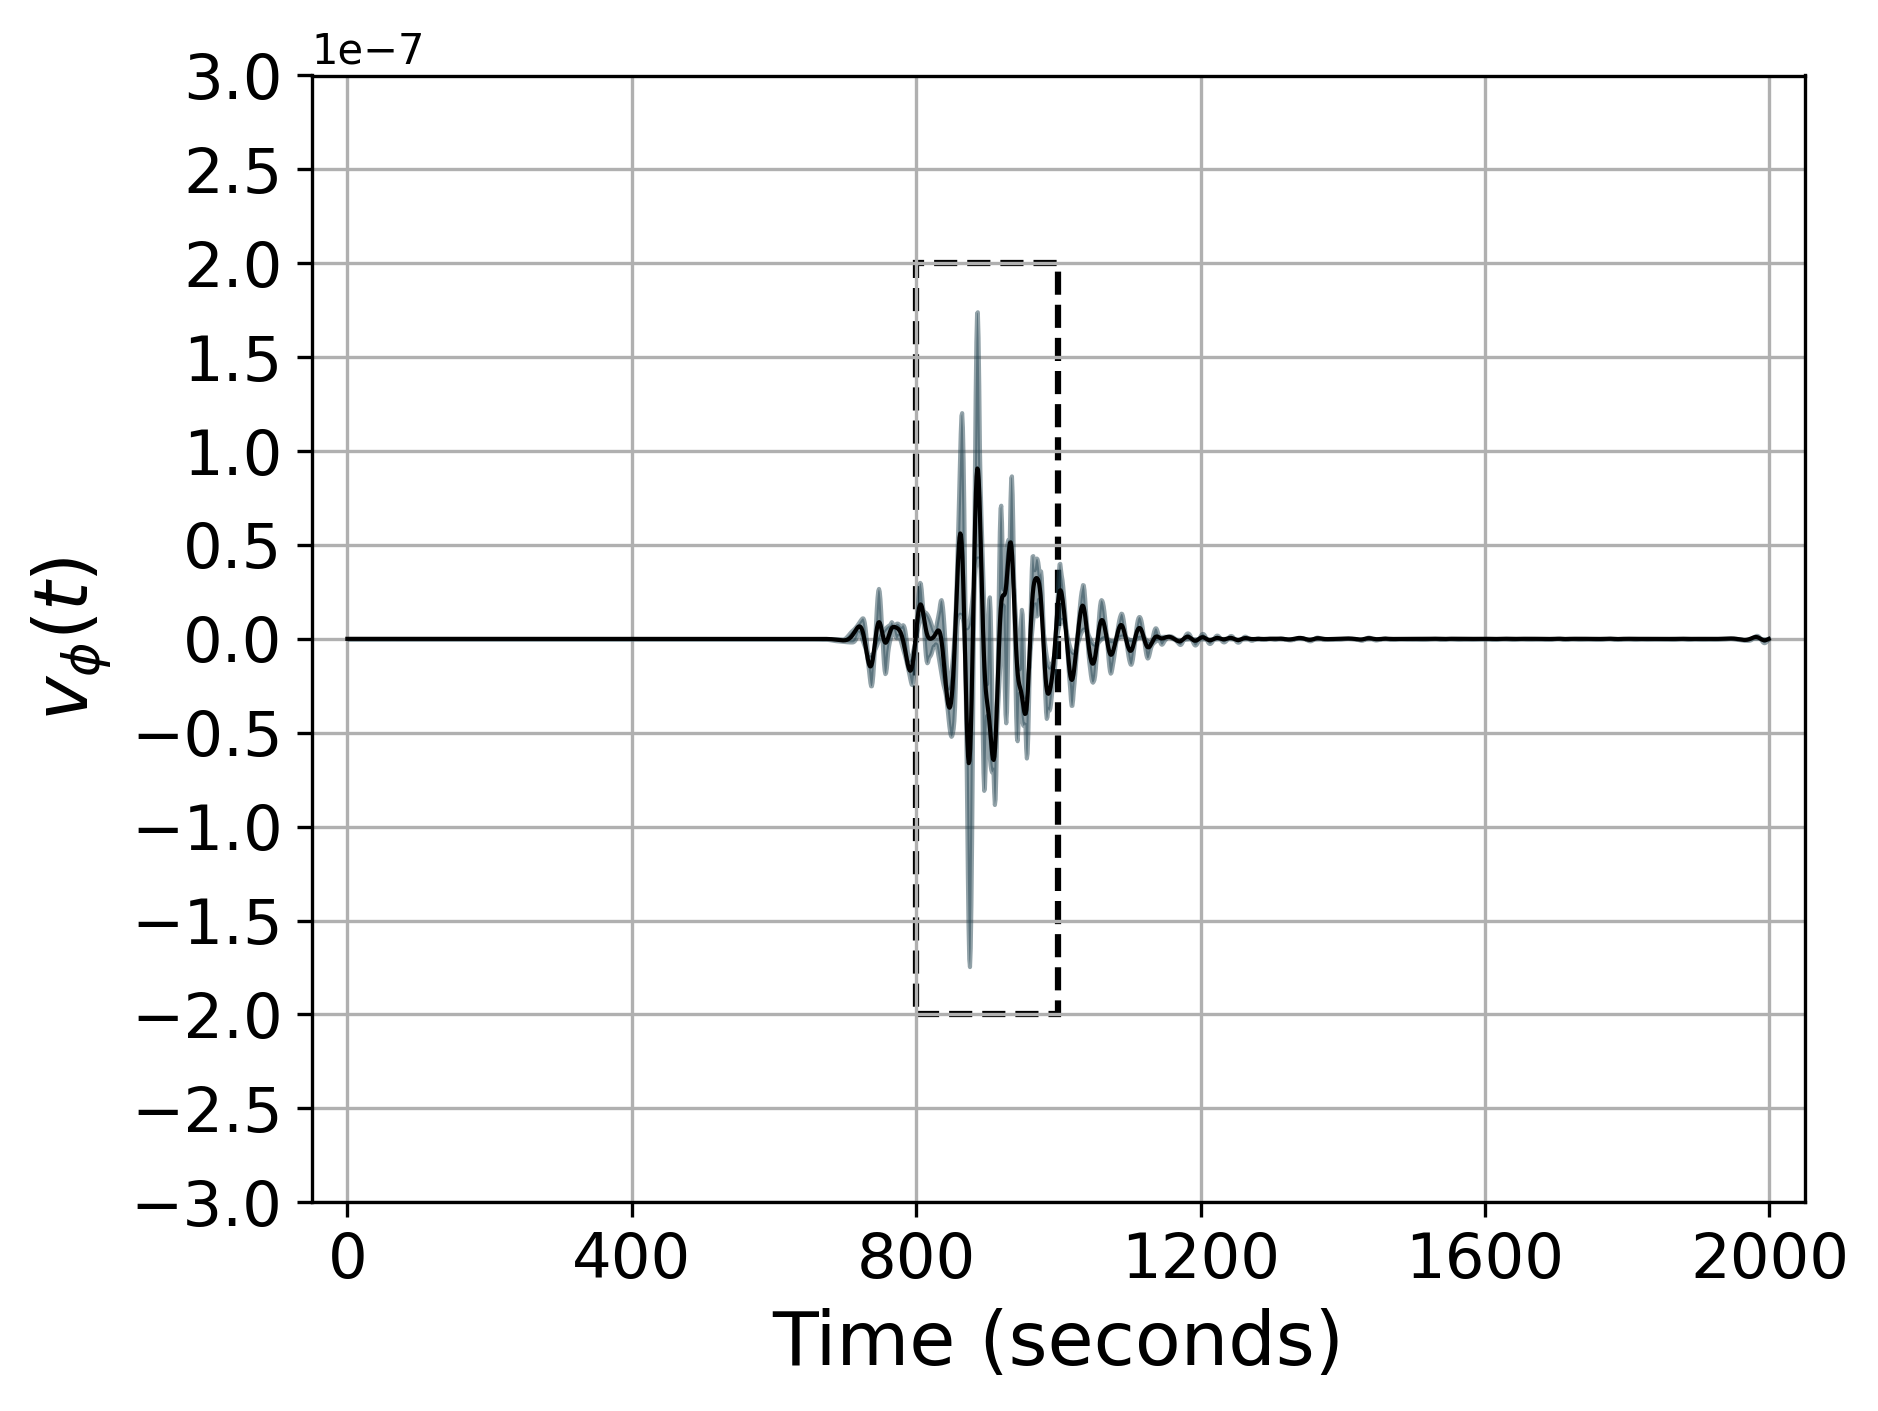
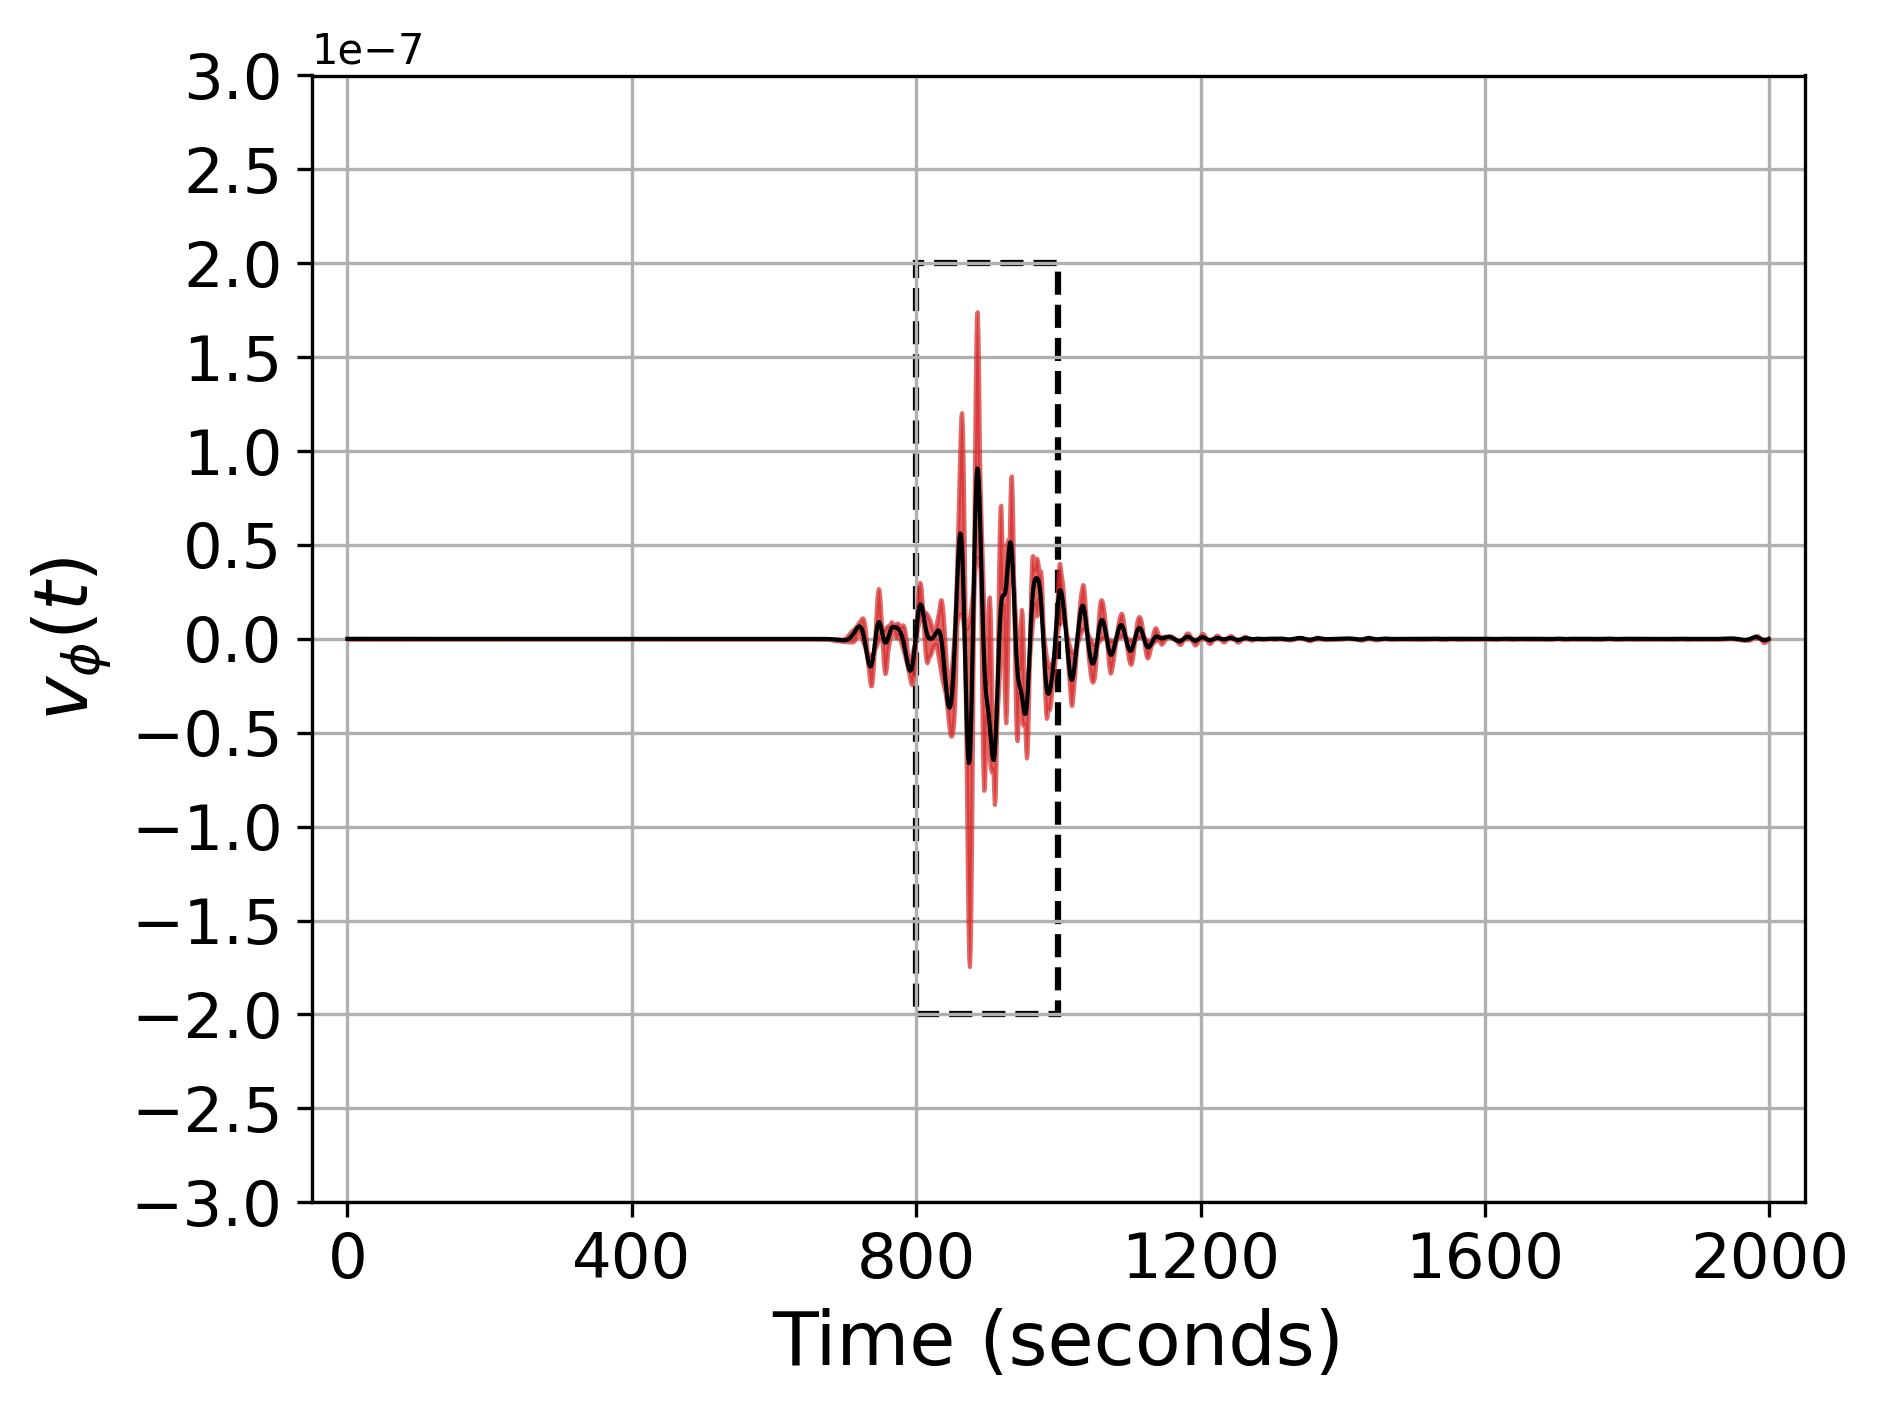
updating colors

Changed region(s): [[0.4324, 0.2183, 0.6486, 0.686]]

diff --git a/rom_uq_forcing/plotSeismoUQ.py b/rom_uq_forcing/plotSeismoUQ.py
@@ -73,7 +73,7 @@ def getDataSingleID(ptId, dataDir, forcingSize, numSets):
 def getROMData(ptIds, romSizeVp, romWorkDir):
   print('')
   romDirsFullPath = [romWorkDir+'/'+d for d in os.listdir(romWorkDir)
-                     if 'rom' in d and str(romSizeVp) in d 
+                     if 'rom' in d and str(romSizeVp) in d
                      and 'nThreads_4' in d]
   assert(len(romDirsFullPath)==1)
 
@@ -181,7 +181,8 @@ def tsplot(ax, x, y, pct, color='r',
   half = int((len(pct)-1)/2) if len(pct) % 2 != 0 else int(len(pct)/2)
   #colormap = plt.cm.get_cmap('BuPu')
   #print(colormap(0))
-  mycolors = ['#264653', '#2a9d8f', '#e9c46a']
+  #mycolors = ['#264653', '#2a9d8f', ]
+  mycolors = ['#d62828', '#f77f00', '#e9c46a']
 
   for i in range(half):
     ax.fill_between(x, P[i,:], P[-(i+1),:],
@@ -209,7 +210,7 @@ def plotFullSeismogram(idi, data, pct, filename):
   plt.grid('on')
   tsplot(ax, t, data, [pct[0], pct[-1]],
          plot_median=False, plot_mean=True, line_color='black',
-         alpha=0.5, zorder=5)
+         alpha=0.7, zorder=5)
 
   ax.set_xlim([-50, 2050])
   ax.set_ylim([-3e-7, 3e-7])
@@ -260,7 +261,7 @@ def plotZoom(idi, data, dataFom, pct, filename):
   plt.grid('on')
   tsplot(ax, t, data, pct,
          plot_median=False, plot_mean=True, line_color='black',
-         alpha=1, zorder=5)
+         alpha=0.7, zorder=5)
 
   ax.plot(t, fom_mean, 'o', markersize=2, color='k',
               label='mean (FOM)', markerfacecolor='none', zorder=6)
